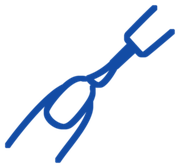
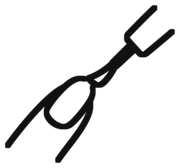
トップの nail の行のネイルマークを小さく・黒に
Claude-Session: https://claude.ai/code/session_01XpsQxmtzfTpmSdUz357qFE

Changed region(s): [[0.0278, 0.0298, 0.9722, 0.9821]]

diff --git a/public/index.html b/public/index.html
@@ -115,7 +115,7 @@ a.brand-row:active p:first-of-type,a.work-link:active p:first-of-type{color:#111
 <a href="https://sun-r-nail.pages.dev/" data-nail-link target="_blank" rel="noopener" class="brand-row" style="text-decoration: none; color: inherit; display: flex; align-items: center; gap: clamp(16px,3vw,32px); padding: clamp(22px,3vw,32px) 0; border-bottom: 1px solid #E6E1DB">
 <span class="pop" style="position: relative; flex: none; display: block; width: clamp(34px,3.4vw,42px);"><img src="images/logo-blue.svg" alt="" width="64" height="64" style="width: 100%; height: auto; display: block"></span>
 <div style="flex: 1 1 auto; min-width: 0">
-<p style="margin: 0; font-family: 'Jost', sans-serif; font-size: clamp(20px,2.4vw,26px); letter-spacing: 0.1em; line-height: 1.3; display: flex; align-items: center; gap: 10px">nail<img src="images/nail-illust.png" alt="" width="30" height="28" style="display: block; width: clamp(26px,2.4vw,32px); height: auto"></p>
+<p style="margin: 0; font-family: 'Jost', sans-serif; font-size: clamp(20px,2.4vw,26px); letter-spacing: 0.1em; line-height: 1.3; display: flex; align-items: center; gap: 8px">nail<img src="images/nail-illust.png" alt="" width="22" height="21" style="display: block; width: clamp(19px,1.7vw,23px); height: auto"></p>
 <p style="margin: 4px 0 0; color: #555555; font-size: 14px">岸和田のプライベートネイルサロン</p>
 </div>
 <span class="brand-go" style="flex: none; font-family: 'Jost', sans-serif; font-size: 12px; letter-spacing: 0.18em; color: #134CA5; white-space: nowrap">VIEW →</span>

diff --git a/CLAUDE.md b/CLAUDE.md
@@ -57,5 +57,5 @@ wrangler.jsonc   Cloudflare 設定（name: sun-r-brands）
 - PWA／ホーム画面アイコン：`public/manifest.webmanifest`（名前 sun_r brands、短い名前 sun_r、start_url `/`）。アイコンは生成り背景に黒のR（`images/icon-192.png`・`icon-512.png`・`icon-maskable-512.png`、iPhone 用 `apple-touch-icon.png` 180px）。全ページの `<head>` から読み込み。各ページのタブのアイコン（favicon）はブランド色のRのまま
 - スマホ向けの演出：一覧（トップのブランド・ABOUT、shop／build の項目、creative のアプリ）は `.stagger` で1行ずつ順に浮き上がる。トップのブランドのR・S/TOOL アイコンは `.pop` で表示時にポップ、タップ中に傾く（iOS で :active を効かせるため空の touchstart を登録）。「視差効果を減らす」がオンなら全部止まり、最初から表示される
 - creative のアプリは個人事業「patch」（代表 門林 玲）が開発・提供。creative.html の各アプリに「by patch」、WORKS の説明文と meta description に patch を明記、ページ下に ABOUT（屋号 patch／代表 門林 玲／事業内容／アプリ）
-- トップの nail の行で「nail」の横にネイルのイラスト（`images/nail-illust.png`、ブルー・背景透過、小さく表示しても線が消えないよう太めに加工）。nail サイトのヒーローでは同じイラストを生成り色で R の中に入れている
+- トップの nail の行で「nail」の横にネイルのイラスト（`images/nail-illust.png`、黒 #111111・背景透過、幅 19〜23px。小さく表示しても線が消えないよう太めに加工）。nail サイトのヒーローでは同じイラストを生成り色で R の中に入れている
 - build のページ文言（施工内容・施工事例は準備中）は仮。オーナーから会社情報・問い合わせ先が届いたら差し替え
